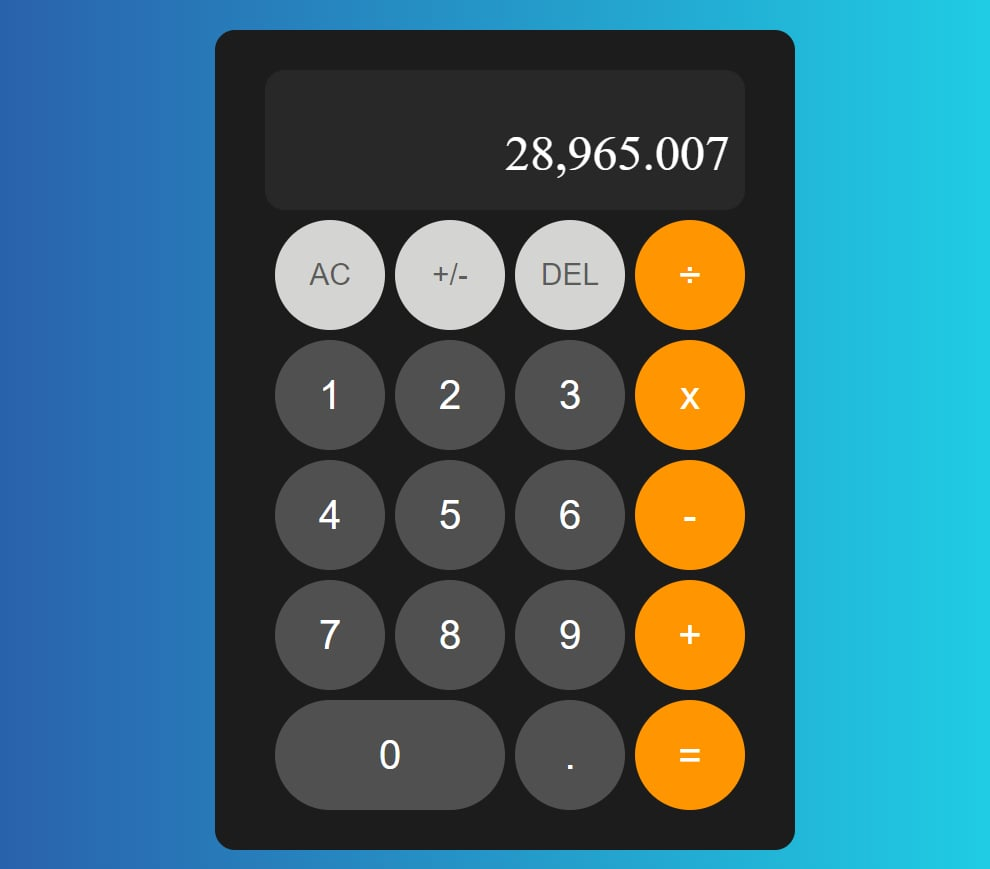
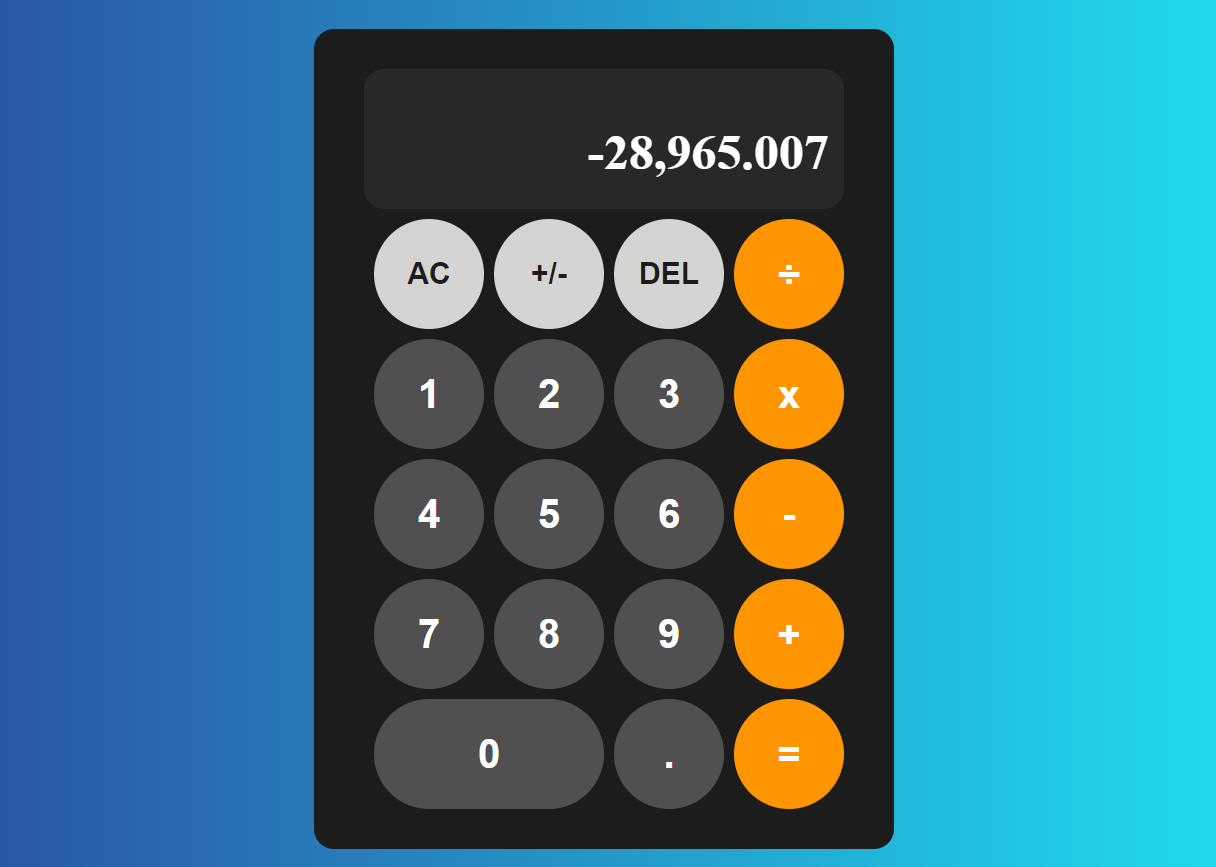
Preview + fixes

Changed region(s): [[0.2121, 0.0311, 0.8182, 0.9965], [0.3636, 0.8408, 0.4242, 0.9031], [0.4545, 0.3737, 0.4848, 0.4048]]

diff --git a/react_calculator/src/style.css b/react_calculator/src/style.css
@@ -28,6 +28,7 @@ body{
     border: 0px solid #505050;
     color: white;
     font-size: 2rem;
+    font-weight: bold;
     padding: 0.25em 0.5em;
     border-radius: 10em;
     cursor: pointer;
@@ -52,6 +53,7 @@ body{
     align-items: flex-end;
     justify-content: space-around;
     padding: .75rem;
+    font-weight: bold;
     word-wrap: break-word;
     word-break: break-all;
     border-radius: 1rem;
@@ -72,6 +74,7 @@ body{
     border: 0px solid #505050;
     color: white;
     font-size: 2rem;
+    font-weight: bold;
     padding: 0.25em 0.5em;
     border-radius: 10em;
     cursor: pointer;
@@ -92,6 +95,7 @@ body{
     border: 0px solid #FF9500;
     color: white;
     font-size: 2rem;
+    font-weight: bold;
     padding: 0.25em 0.5em;
     border-radius: 10em;
     cursor: pointer;
@@ -111,8 +115,9 @@ body{
 .btn-top {
     background: #D4D4D2;
     border: 0px solid #D4D4D2;
-    color: #1c1c1ca9;
+    color: #1c1c1c;
     font-size: 1.5rem;
+    font-weight: bold;
     padding: 0.25em 0.5em;
     border-radius: 10em;
     cursor: pointer;
